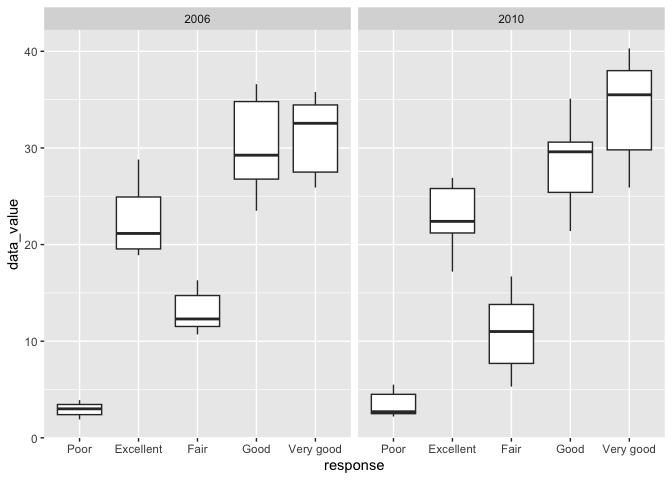
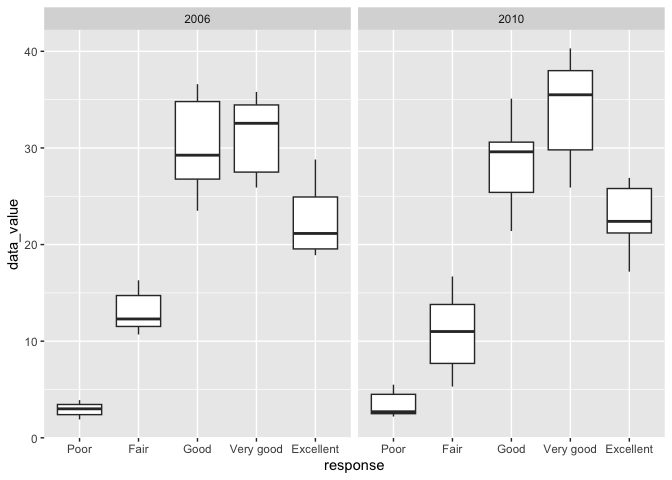
subtle change of the boxplot

diff --git a/p8105_hw3_zj2379.md b/p8105_hw3_zj2379.md
@@ -166,7 +166,7 @@ brfss_smart =
   janitor::clean_names() |>
   rename(state = locationabbr, location_state = locationdesc) |>
   filter(topic %in% "Overall Health") |>
-  mutate(response = fct_relevel(response, "Poor","Excellent"))
+  mutate(response = fct_relevel(response, "Poor","Fair","Good","Very good","Excellent"))
 ```
 
 ``` r
